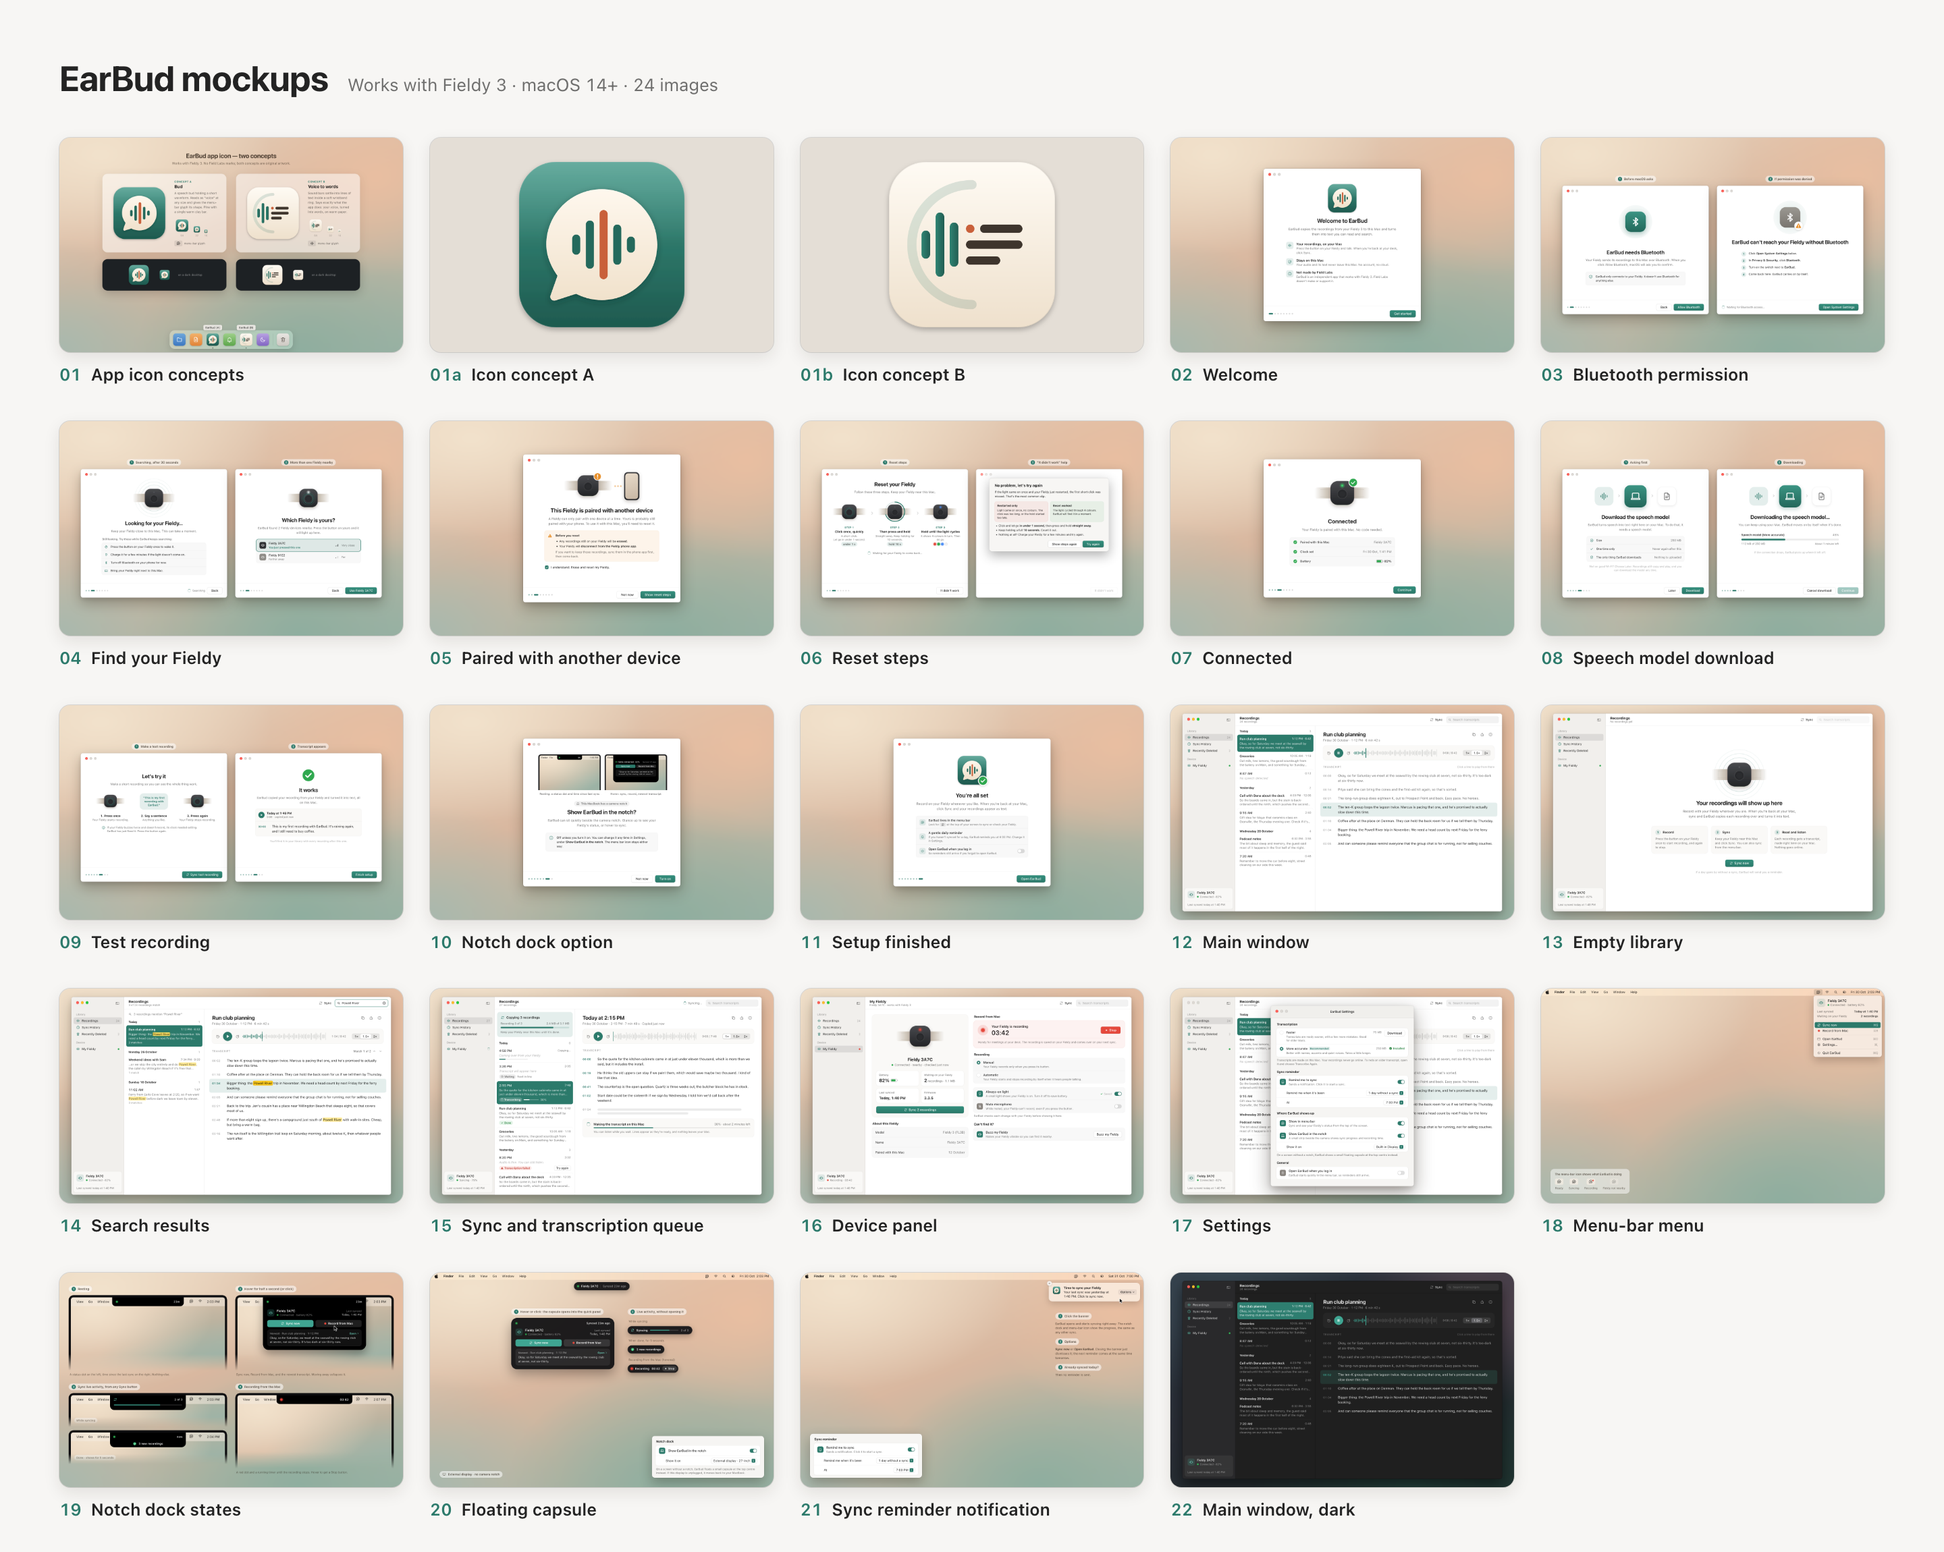
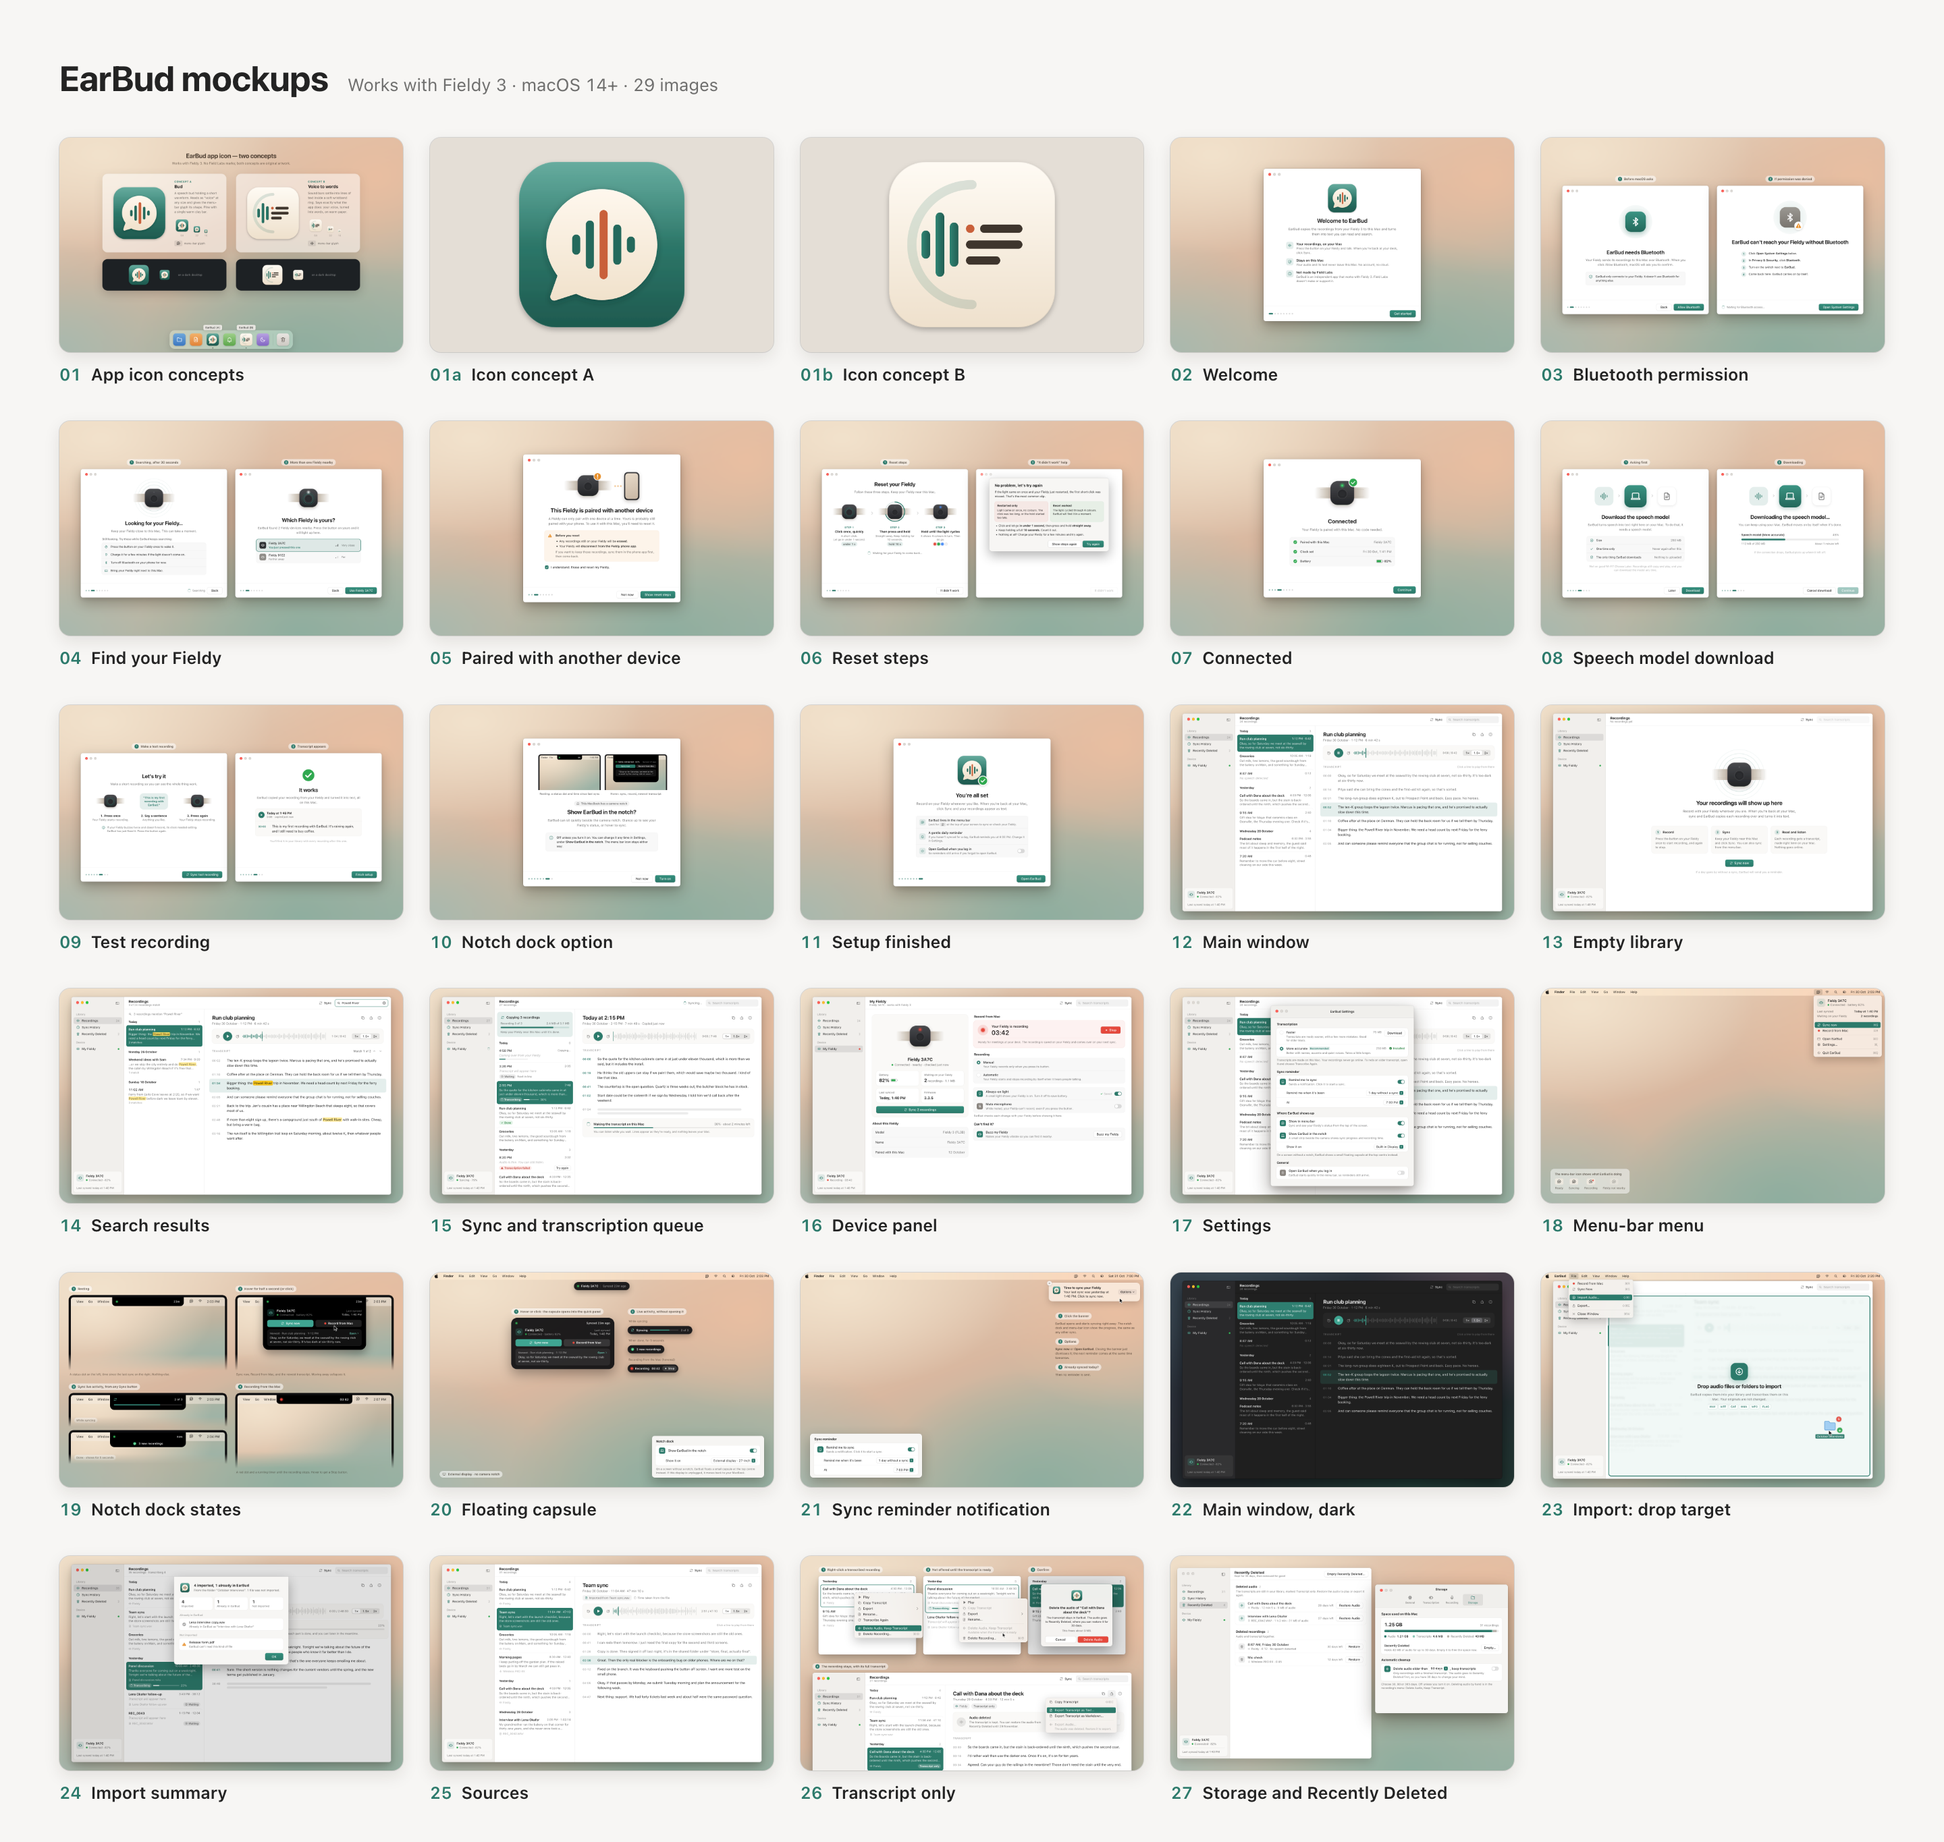
Mockups v1.1: storage and Recently Deleted (27), README and contact sheet

diff --git a/design/mockups/src/27-storage.html b/design/mockups/src/27-storage.html
@@ -1,0 +1,131 @@
+<!doctype html>
+<html><head><meta charset="utf-8"><link rel="stylesheet" href="../mockups.css"><script src="../kit.js"></script>
+<style>
+  .desk { display: block; }
+  .rd { position: absolute; left: 28px; top: 50px; width: 814px; height: 800px; }
+  .rd .toolbar .btn { margin-left: auto; }
+  .rdbody { flex: 1; overflow: hidden; padding: 18px 22px; display: flex; flex-direction: column; gap: 20px; }
+  .rdsec h3 { font-size: 13px; font-weight: 700; margin: 0 0 3px 2px; display: flex; gap: 8px; align-items: baseline; }
+  .rdsec h3 span { font-size: 12px; font-weight: 500; color: var(--label-3); }
+  .rdsec .hint { font-size: 11.5px; color: var(--label-2); margin: 0 2px 8px; }
+  .rdsec .group { background: var(--content); }
+  .rdsec .row { min-height: 54px; }
+  .rdsec .ricon.soft { background: var(--fill-2); color: var(--label-2); }
+  .rdsec .ricon.tint { background: var(--accent-tint); color: var(--accent); }
+  .rdsec .lbl small { display: flex; align-items: center; gap: 4px; }
+  .rdsec .lbl small .ic { width: 11px; height: 11px; color: var(--label-3); }
+  .left { font-size: 11.5px; color: var(--label-2); white-space: nowrap; }
+  .prefs.st { left: 858px; top: 120px; width: 556px; height: 540px; }
+  .tabs { display: flex; justify-content: center; gap: 4px; padding: 0 0 8px; border-bottom: 0.5px solid var(--sep-strong); background: rgba(240,238,235,0.9); }
+  .tabs span { width: 84px; height: 48px; border-radius: 7px; display: flex; flex-direction: column; align-items: center; justify-content: center; gap: 3px; font-size: 11px; color: var(--label-2); }
+  .tabs span .ic { width: 20px; height: 20px; }
+  .tabs span.on { background: rgba(0,0,0,0.07); color: var(--accent); }
+  .prefs.st .titlebar { border-bottom: 0; height: 40px; }
+  .usage { padding: 14px 14px 13px; }
+  .usage .tot { display: flex; justify-content: space-between; align-items: baseline; margin-bottom: 9px; }
+  .usage .tot b { font-size: 20px; font-weight: 700; letter-spacing: -0.01em; }
+  .usage .tot small { font-size: 12px; color: var(--label-2); }
+  .inline-pop { margin: 0 4px; vertical-align: 1px; }
+  .menu.pop { width: 130px; z-index: 30; }
+  .menu.pop .it { gap: 6px; padding-left: 6px; }
+  .menu.pop .it .ck { width: 14px; display: inline-grid; place-items: center; }
+  .menu.pop .it .ck .ic { width: 12px; height: 12px; }
+</style></head>
+<body><div class="desk">
+  <!-- Main window: Recently Deleted -->
+  <div class="win inactive rd">
+    <div class="tl"></div>
+    <div class="split">
+      <aside class="sidebar">
+        <span class="tb-btn"><i class="ic" data-i="sidebar"></i></span>
+        <div class="side-h">Library</div>
+        <div class="side-i"><i class="ic" data-i="waveform"></i>Recordings<span class="ct">31</span></div>
+        <div class="side-i"><i class="ic" data-i="history"></i>Sync History</div>
+        <div class="side-i sel"><i class="ic" data-i="trash"></i>Recently Deleted<span class="ct">4</span></div>
+        <div class="side-h">Device</div>
+        <div class="side-i"><i class="ic" data-i="pod"></i>My Fieldy<span class="ct"><span class="dot"></span></span></div>
+        <div class="devcard">
+          <span class="pod"><i class="ic" data-i="pod"></i></span>
+          <b>Fieldy 3A7C</b>
+          <small><span class="dot"></span>Connected · 82%</small>
+          <div class="last">Last synced today at 1:40 PM</div>
+        </div>
+      </aside>
+      <div class="main">
+        <div class="toolbar">
+          <div class="ttl"><b>Recently Deleted</b><small>Kept for 30 days, then removed for good</small></div>
+          <span class="btn">Empty Recently Deleted…</span>
+        </div>
+        <div class="rdbody">
+          <div class="rdsec">
+            <h3>Deleted audio<span>2</span></h3>
+            <p class="hint">The transcripts are still in your library, marked Transcript only. Restore the audio to play or export it again.</p>
+            <div class="group">
+              <div class="row"><span class="ricon tint"><i class="ic" data-i="waveform"></i></span><div class="lbl"><b>Call with Dana about the deck</b><small><i class="ic" data-i="pod"></i>Fieldy · 12 min 5 s · 9 MB of audio</small></div><span class="left">29 days left</span><span class="btn">Restore Audio</span></div>
+              <div class="row"><span class="ricon tint"><i class="ic" data-i="waveform"></i></span><div class="lbl"><b>Interview with Lena Okafor</b><small><i class="ic" data-i="doc"></i>REC_0042.WAV · 1 h 2 min · 31 MB of audio</small></div><span class="left">27 days left</span><span class="btn">Restore Audio</span></div>
+            </div>
+          </div>
+          <div class="rdsec">
+            <h3>Deleted recordings<span>2</span></h3>
+            <p class="hint">Audio and transcript together.</p>
+            <div class="group">
+              <div class="row"><span class="ricon soft"><i class="ic" data-i="trash"></i></span><div class="lbl"><b>8:47 AM, Friday 30 October</b><small><i class="ic" data-i="pod"></i>Fieldy · 0:12 · No speech detected</small></div><span class="left">30 days left</span><span class="btn">Restore</span></div>
+              <div class="row"><span class="ricon soft"><i class="ic" data-i="trash"></i></span><div class="lbl"><b>Mic check</b><small><i class="ic" data-i="mic"></i>Wireless PRO RX · 0:45</small></div><span class="left">12 days left</span><span class="btn">Restore</span></div>
+            </div>
+          </div>
+        </div>
+      </div>
+    </div>
+  </div>
+
+  <!-- Settings > Storage -->
+  <div class="win prefs st">
+    <div class="tl"><i></i><i style="background:#DCD9D5"></i><i style="background:#DCD9D5"></i></div>
+    <div class="titlebar">Storage</div>
+    <div class="tabs">
+      <span><i class="ic" data-i="gear"></i>General</span>
+      <span><i class="ic" data-i="cc"></i>Transcription</span>
+      <span><i class="ic" data-i="mic"></i>Recording</span>
+      <span class="on"><i class="ic" data-i="folder"></i>Storage</span>
+    </div>
+    <div class="form">
+      <div class="fsec">
+        <h3>Space used on this Mac</h3>
+        <div class="group">
+          <div class="usage">
+            <div class="tot"><b>1.25 GB</b><small>31 recordings</small></div>
+            <div class="meter"><i style="width:94%;background:var(--accent)"></i><i style="width:0.6%;background:#8FC9B9;min-width:4px"></i><i style="width:3.2%;background:#B9B4AD"></i></div>
+            <div class="legend2">
+              <span><i class="sw" style="background:var(--accent)"></i>Audio <b>1.21 GB</b></span>
+              <span><i class="sw" style="background:#8FC9B9"></i>Transcripts <b>4.6 MB</b></span>
+              <span><i class="sw" style="background:#B9B4AD"></i>Recently Deleted <b>40 MB</b></span>
+            </div>
+          </div>
+          <div class="row"><div class="lbl"><b>Recently Deleted</b><small>Holds 40 MB of audio for up to 30 days. Empty it to free the space now.</small></div><span class="btn">Empty…</span></div>
+        </div>
+      </div>
+      <div class="fsec">
+        <h3>Automatic cleanup</h3>
+        <div class="group">
+          <div class="row top"><span class="ricon"><i class="ic" data-i="waveform"></i></span><div class="lbl"><b>Delete audio older than<span class="popup inline-pop" id="age">90 days<span class="chev"><i class="ic" data-i="updown" data-w="2.4"></i></span></span>, keep transcripts</b><small>Only recordings with a finished transcript. The audio goes to Recently Deleted first, so you have 30 days to change your mind.</small></div><span class="toggle" style="margin-top:3px"></span></div>
+        </div>
+        <p class="foot">Choose 30, 90 or 365 days. Off unless you turn it on. Deleting audio by hand is in the recording's menu: Delete Audio, Keep Transcript.</p>
+      </div>
+    </div>
+    <div class="menu pop" id="agemenu" style="display:none">
+      <div class="it"><span class="ck"></span>30 days</div>
+      <div class="it hl"><span class="ck"><i class="ic" data-i="check" data-w="2.6"></i></span>90 days</div>
+      <div class="it"><span class="ck"></span>365 days</div>
+    </div>
+  </div>
+</div>
+<script>
+  window.addEventListener("load", () => {
+    const w = document.querySelector(".prefs.st").getBoundingClientRect();
+    const p = document.getElementById("age").getBoundingClientRect();
+    const m = document.getElementById("agemenu");
+    m.style.left = (p.left - w.left - 4) + "px";
+    m.style.top = (p.top - w.top - 29) + "px";
+  });
+</script>
+</body></html>

diff --git a/design/mockups/src/00-contact-sheet.html b/design/mockups/src/00-contact-sheet.html
@@ -16,7 +16,7 @@
   .t b i { font-style: normal; color: var(--accent); font-variant-numeric: tabular-nums; }
 </style></head>
 <body><div class="sheet">
-  <div class="hd"><h1>EarBud mockups</h1><span>Works with Fieldy 3 · macOS 14+ · 24 images</span></div>
+  <div class="hd"><h1>EarBud mockups</h1><span>Works with Fieldy 3 · macOS 14+ · 29 images</span></div>
   <div class="grid">
     <div class="t"><div class="im"><img src="../01-app-icon.png"></div><b><i>01</i>App icon concepts</b></div>
     <div class="t"><div class="im sq"><img src="../01a-icon-concept-a-1024.png"></div><b><i>01a</i>Icon concept A</b></div>
@@ -42,5 +42,10 @@
     <div class="t"><div class="im"><img src="../20-floating-capsule.png"></div><b><i>20</i>Floating capsule</b></div>
     <div class="t"><div class="im"><img src="../21-sync-reminder-notification.png"></div><b><i>21</i>Sync reminder notification</b></div>
     <div class="t"><div class="im"><img src="../22-main-window-dark.png"></div><b><i>22</i>Main window, dark</b></div>
+    <div class="t"><div class="im"><img src="../23-import-drop.png"></div><b><i>23</i>Import: drop target</b></div>
+    <div class="t"><div class="im"><img src="../24-import-summary.png"></div><b><i>24</i>Import summary</b></div>
+    <div class="t"><div class="im"><img src="../25-sources.png"></div><b><i>25</i>Sources</b></div>
+    <div class="t"><div class="im"><img src="../26-transcript-only.png"></div><b><i>26</i>Transcript only</b></div>
+    <div class="t"><div class="im"><img src="../27-storage.png"></div><b><i>27</i>Storage and Recently Deleted</b></div>
   </div>
 </div></body></html>

diff --git a/design/mockups/README.md b/design/mockups/README.md
@@ -35,6 +35,26 @@ How they are made: each screen is an HTML page in `src/`, styled by `mockups.css
 - **21-sync-reminder-notification.png**: "Time to sync your Fieldy" notification banner, with the reminder settings. sync-reminder: Daily reminder.
 - **22-main-window-dark.png**: screen 12 in macOS dark appearance. recordings-library: Recordings grouped by day, Recording detail (dark mode).
 
+## v1.1 screens: other sources and transcript retention
+
+These follow the OpenSpec change `openspec/changes/earbud-other-sources/` (audio-import and transcript-retention specs, and design.md).
+
+- **23-import-drop.png**: a folder dragged over the main window shows the drop target "Drop audio files or folders to import" with the accepted types; the File menu shows Import Audio… (⇧⌘I). audio-import: Import audio files, Imported files are copied and kept safe.
+- **24-import-summary.png**: import summary sheet "4 imported, 1 already in EarBud", naming the duplicate and a rejected PDF ("EarBud can't read this kind of file"); behind it, a 2 h 48 min import transcribing at 23% in its list row, the others Waiting. audio-import: Import summary, No duplicates, Import audio files (unsupported file), Long files.
+- **25-sources.png**: list and detail with source labels for Fieldy, imported files (Team sync.wav, REC_0042.WAV) and a microphone (Wireless PRO RX); the Team sync detail says "Time taken from the file". audio-import: Source shown and shared library, Recording time from the file.
+- **26-transcript-only.png**: right-click menu with Delete Audio, Keep Transcript; the same item disabled on a recording still transcribing ("Available when the transcript is ready"); the confirmation; and a "Transcript only" recording with "Audio deleted" in place of the player and Export Audio disabled with its reason. transcript-retention: Delete audio, keep transcript; Transcript entries behave like recordings; Never delete audio that has no transcript yet.
+- **27-storage.png**: Settings > Storage with audio, transcript and Recently Deleted space, and "Delete audio older than [90 days], keep transcripts" (30 / 90 / 365, off); Recently Deleted lists deleted audio apart from deleted recordings, each with Restore. transcript-retention: Optional automatic audio cleanup, Audio deletion is recoverable for 30 days.
+
+### Open questions for v1.1
+
+1. **Settings tabs (27).** v1 Settings is one page. Storage (and Recording, from design.md) need their own place, so 27 shows a tabbed Settings window: General, Transcription, Recording, Storage. The tab names and the split are ours.
+2. **Import summary layout (24).** The spec gives the headline. The count tiles, the "From the folder …" line and the rejected count as "1 file was not imported" are our wording. Imported files are not listed by name, since the spec only asks for names of skipped and rejected files.
+3. **Duplicate line (24).** 'Already in EarBud as "Interview with Lena Okafor"' names the existing recording. The spec only requires "Already in EarBud".
+4. **Drop target copy (23).** Only the headline comes from the spec. The line about copying and originals, and the list of file types, are ours.
+5. **Confirmation and Audio deleted copy (26).** The alert text ("The transcript stays in EarBud…", "This frees about 9 MB"), the restore-by date under "Audio deleted", the "Show in Recently Deleted" button and the Export Audio reason ("The audio was deleted. Restore it to export.") are ours.
+6. **Menu names (23, 26).** "Import Audio…" and "Delete Audio, Keep Transcript" come from the spec. The shortcut ⇧⌘I, "Delete Recording…", "Restore Audio" and the section names in Recently Deleted ("Deleted audio", "Deleted recordings") are ours.
+7. **Title of an imported recording (24, 25).** The mockups use the file name without its extension (for example "Team sync", "REC_0043") until the user renames it.
+
 ## Open questions for Beaux
 
 1. **Automatic recording mode (16).** The one-sentence explanation ("starts and stops recording by itself when it hears people talking") is a guess at what the device does. Please confirm.
